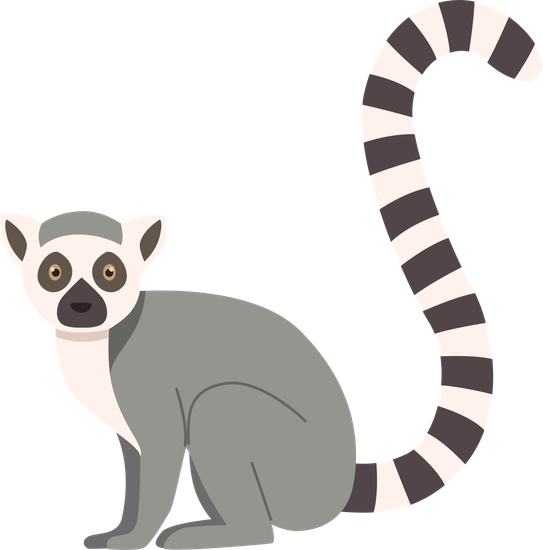
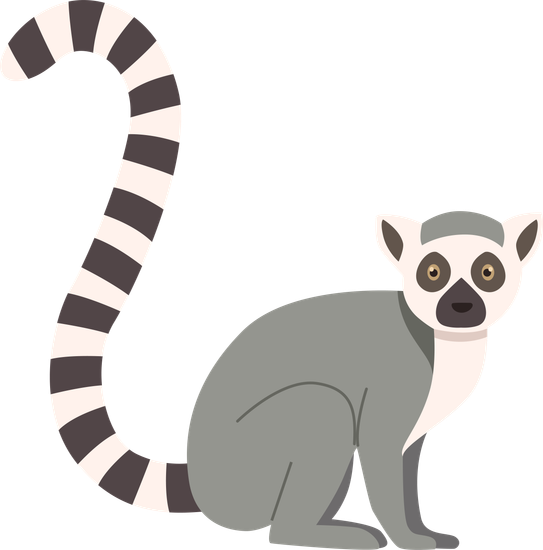
lêmure adicionados na tela inicial

diff --git a/assets/css/style.css b/assets/css/style.css
@@ -224,7 +224,7 @@ div.container-imagens.meio{
     justify-content: space-around;
     align-items: center;
     flex-wrap: wrap;
-    margin: 150px 0px;
+    margin: 0px 0px 150px 0px;
     padding: 50px 0px;
     background: linear-gradient(180deg,         
     #f8db7e 0%,          
@@ -275,6 +275,31 @@ div.container-imagens.meio{
     border-radius: 5px;
     border: 1px solid #fefefe;
 }
+.container-card-texto button:hover{
+    color: #000000;
+    font-weight: bold;
+    background-color: #fefefe;
+}
+
+/******************lêmures******************/
+.lemure-sentado{
+    width: 195px;
+    position: relative;
+    bottom: -10px;
+    margin-left: 10px;
+}
+.lemure-sentado img{
+    width: 100%;
+}
+.lemure-quatro{
+    width: 195px;
+    position: absolute;
+    right: 20px;
+    bottom: -1.5%; 
+}
+.lemure-quatro img{
+    width: 100%;
+}
 
 @media screen and (min-width: 768px) and (max-width: 992px) {
      #venha-conhecer{
@@ -321,6 +346,15 @@ div.container-imagens.meio{
     #carrossel-home-imagens{
         height: 100vh;
         overflow: hidden; 
+        background: linear-gradient(110deg,         
+    #110012 30%,
+    #f8db7e 30%,          
+    #f8db7e 40%,          
+    #ec6349 40%,          
+    #ec6349 55%,          
+    #ce2340 55%,     
+    #ce2340 100%     
+    ); 
     }
     .container-img {
         height: 200px;
@@ -339,7 +373,7 @@ div.container-imagens.meio{
         flex-direction: column;
         align-items: center;
         justify-content: center;
-        margin: 150px 20px;
+        margin: 150px 20px 0px;
     }
     .container-conhecer-esquerda {
         display: flex;
@@ -384,8 +418,24 @@ div.container-imagens.meio{
         width: 350px;
         height: 300px;
     }
+
+
+
+    /******************lêmures******************/
+    .lemure-sentado{
+        width: 150px;
+        bottom: -160px;
+    }
+    .lemure-sentado img{
+        width: 100%;
+    }
+    .lemure-quatro{
+        width: 150px;
+    }
+
 }
 footer{
     grid-column: 1/-1;
     grid-row: 3/-1;
 }
+

diff --git a/index.html b/index.html
@@ -42,6 +42,9 @@
             </div>
         </section>
     <!-- ***************carrossel*************** -->
+        <div class="lemure-quatro">
+            <img src="assets/img/lemureEngatinhando.png" alt="lêmure">
+        </div>
         <section id="carrossel-home-imagens">
             <div class="container-imagens cima">
                 <div class="container-img">
@@ -140,7 +143,6 @@
                 </div>
             </div>
         </section>
-
     <!-- ***************venha conhecer*************** -->
         <section id="venha-conhecer">
             <div class="container-conhecer-esquerda">
@@ -152,6 +154,9 @@
             </div>
         </section>
     <!-- ***************imagens*************** -->
+        <div class="lemure-sentado">
+            <img src="assets/img/lemureSentado.png" alt="lêmure">
+        </div>
         <section id="venha-descobrir">
             <div class="container-descobrir-cards">
                 <div class="container-card-img">
